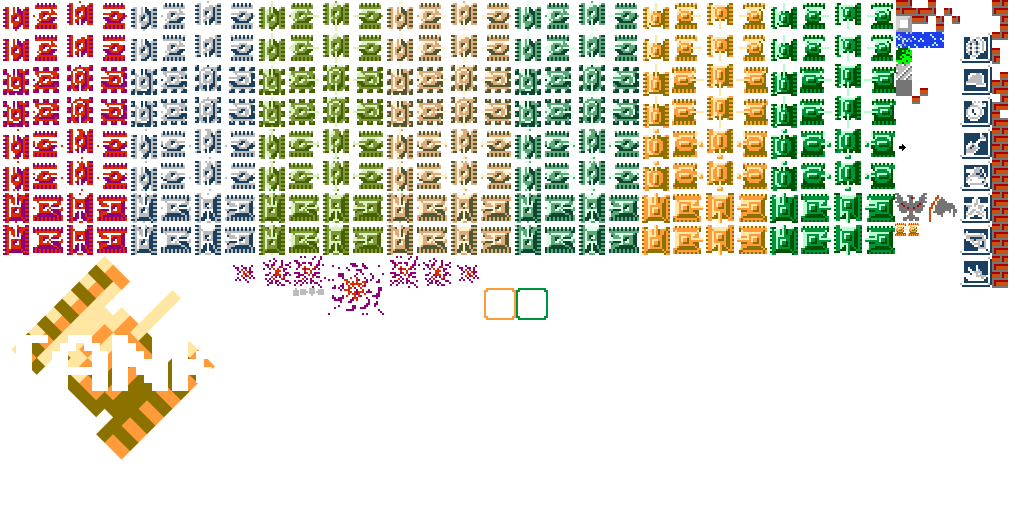
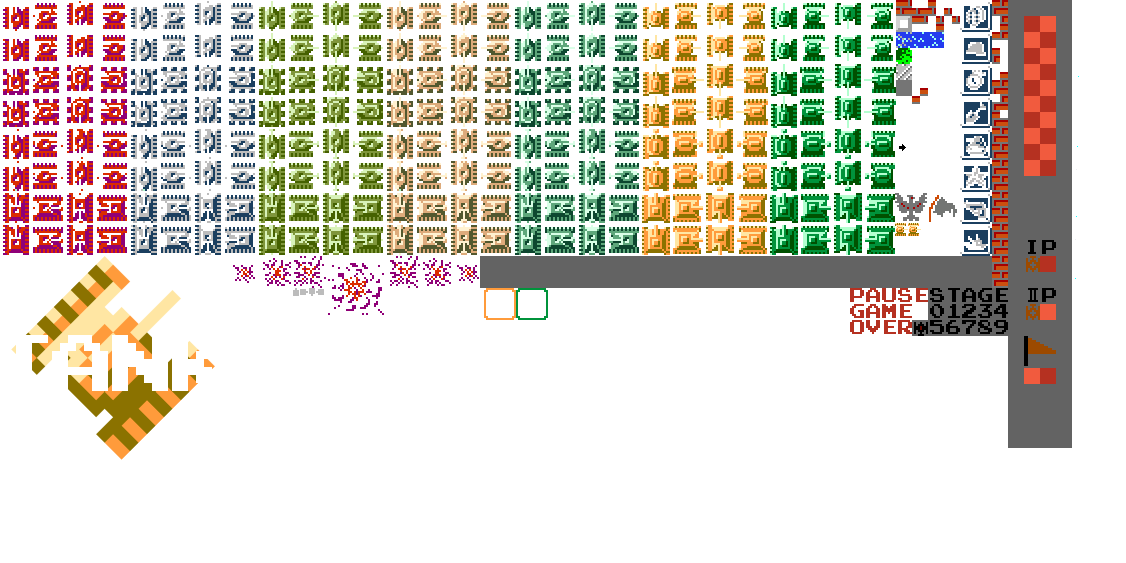
next iteration

diff --git a/src/main/java/ua/drozda/battlecity/fx/MainFXApplication.java b/src/main/java/ua/drozda/battlecity/fx/MainFXApplication.java
@@ -41,9 +41,17 @@ public class MainFXApplication extends Application {
     public void start(Stage primaryStage) throws Exception {
         LevelLoader.loadlevel("20", world);
         fxWorld.setWorld(world);
+        Group playGround = new Group();
         Group root = new Group();
-        Scene scene = new Scene(root, fxWorld.getWorld().getWorldWiddthPixel(), fxWorld.getWorld().getWorldHeightPixel(), Color
-                .BLACK);
+        root.getChildren().add(FxBorder.group);
+        root.getChildren().add(playGround);
+        Scene scene = new Scene(root, fxWorld.getWorld().getWorldWiddthPixel() +
+                fxWorld.getWorld().getCellWidth() * 6,//for bounds around playground
+                fxWorld.getWorld().getWorldHeightPixel() +
+                        fxWorld.getWorld().getCellWidth() * 4, //for bounds around playground
+                Color.BLACK);
+        playGround.setLayoutX(fxWorld.getWorld().getCellWidth() * 2);
+        playGround.setLayoutY(fxWorld.getWorld().getCellHeight() * 2);
         scene.setOnKeyReleased(keyPressedEventHandler);
         scene.setOnKeyPressed(keyPressedEventHandler);
         AnimationTimer toggleAnimationTimer = new AnimationTimer() {
@@ -54,6 +62,8 @@ public class MainFXApplication extends Application {
             }
         };
 
+        Group bounds = new Group();
+
         AnimationTimer mainLoop = new AnimationTimer() {
             private Boolean init = false;
 
@@ -63,18 +73,19 @@ public class MainFXApplication extends Application {
 
                     world.initializeWorld(now);
                     FxGameUnit tank = FxGameUnit.createFxGameUnit(world.getFirstPlayer());
-                    fxWorld.fxGameUnitsList.add(tank);
+
                     firstPlayerTank = world.getFirstPlayer();
-                    // root.getChildren().add(tank.getImageView());
+                    // playGround.getChildren().add(tank.getImageView());
 
                     FxGameUnit tank2 = FxGameUnit.createFxGameUnit(world.getSecondPlayer());
                     fxWorld.fxGameUnitsList.add(tank2);
+                    fxWorld.fxGameUnitsList.add(tank);
                     secondPlayerTank = world.getSecondPlayer();
-                    //root.getChildren().add(tank2.getImageView());
+                    //playGround.getChildren().add(tank2.getImageView());
                     //fxWorld.ga
                     Collections.reverse(fxWorld.fxGameUnitsList);
                     for (FxGameUnit fxGameUnit : fxWorld.fxGameUnitsList) {
-                        root.getChildren().add(fxGameUnit.getImageView());
+                        playGround.getChildren().add(fxGameUnit.getImageView());
                     }
 
                     init = true;

diff --git a/src/main/java/ua/drozda/battlecity/fx/FxWorld.java b/src/main/java/ua/drozda/battlecity/fx/FxWorld.java
@@ -13,8 +13,8 @@ import java.util.List;
  */
 public class FxWorld implements Togglable {
 
-    static final Integer tileSize = 16;
-    static final Integer tankSize = 32;
+    static public final Integer tileSize = 16;
+    static public final Integer tankSize = 32;
 
     static final Integer bulletExplosion = 32;
     static final Integer tankExplosion = 64;
@@ -27,6 +27,9 @@ public class FxWorld implements Togglable {
     static final Integer secondPlayerZoneX = 24 * tankSize;
     static final Integer secondPlayerZoneY = 0 * tankSize;
 
+    static final Integer borderZoneX = 15 * tankSize;
+    static final Integer borderZoneY = 8 * tankSize;
+
     static final Integer brickZoneY = 0 * tileSize;
     static final Integer steelZoneY = 1 * tileSize;
     static final Integer waterZoneY = 2 * tileSize;
@@ -38,8 +41,8 @@ public class FxWorld implements Togglable {
 
 
     //     private static InputStream spritesStream = FxWorld.class.getResourceAsStream("../images/sprites.png");
-//    private static InputStream spritesStream = FxWorld.class.getResourceAsStream("../images/graphics_debug.png");
-    private static InputStream spritesStream = FxWorld.class.getResourceAsStream("../images/graphics.png");
+    private static InputStream spritesStream = FxWorld.class.getResourceAsStream("../images/graphics_debug.png");
+    //   private static InputStream spritesStream = FxWorld.class.getResourceAsStream("../images/graphics.png");
     static Image sprites = new Image(spritesStream);
     List<FxGameUnit> fxGameUnitsList = new ArrayList<>();
     // private FxTank firstPlayerTank;
@@ -63,6 +66,7 @@ public class FxWorld implements Togglable {
             fxGameUnit.toggle(now);
         }
     }
+
     public World getWorld() {
         return world;
     }

diff --git a/src/main/java/ua/drozda/battlecity/fx/FxBorder.java b/src/main/java/ua/drozda/battlecity/fx/FxBorder.java
@@ -1,0 +1,45 @@
+package ua.drozda.battlecity.fx;
+
+import javafx.geometry.Rectangle2D;
+import javafx.scene.Group;
+import javafx.scene.image.ImageView;
+
+import java.util.ArrayList;
+import java.util.List;
+
+/**
+ * Created by GFH on 04.07.2015.
+ */
+public class FxBorder {
+    public static Group group = new Group();
+    private static List<ImageView> imageViews = new ArrayList<>(4);
+
+    static {
+        ImageView imageView = new ImageView(FxWorld.sprites);//top
+        imageView.setViewport(new Rectangle2D(FxWorld.borderZoneX, FxWorld.borderZoneY, 32 * FxWorld.tileSize,
+                FxWorld.tankSize));
+        group.getChildren().add(imageView);
+        imageView = new ImageView(FxWorld.sprites);//bottom
+        imageView.setViewport(new Rectangle2D(FxWorld.borderZoneX, FxWorld.borderZoneY, 32 * FxWorld.tileSize,
+                FxWorld.tankSize));
+        imageView.setY(28 * FxWorld.tileSize);
+        group.getChildren().add(imageView);
+        imageView = new ImageView(FxWorld.sprites);//right
+        imageView.setViewport(new Rectangle2D(FxWorld.tankSize * 31 + FxWorld.tileSize, 0, 2 * FxWorld
+                .tankSize,
+                14 * FxWorld.tankSize));
+        imageView.setX(28 * FxWorld.tileSize);
+        imageView.setY(2 * FxWorld.tileSize);
+        group.getChildren().add(imageView);
+        imageView = new ImageView(FxWorld.sprites);//left
+        imageView.setViewport(new Rectangle2D(FxWorld.borderZoneX, FxWorld.borderZoneY, 32 * FxWorld.tileSize,
+                FxWorld.tankSize));
+        imageView.setX(-15 * FxWorld.tileSize);
+        imageView.setY(14 * FxWorld.tileSize);
+        imageView.setRotate(90);
+        group.getChildren().add(imageView);
+
+
+    }
+
+}

diff --git a/src/main/java/ua/drozda/battlecity/core/collisions/CollisionManager.java b/src/main/java/ua/drozda/battlecity/core/collisions/CollisionManager.java
@@ -53,7 +53,6 @@ public class CollisionManager {
     }
 
     public void newPosition(ActiveUnit activeUnit) {
-        final boolean stop;
         world.getUnitList().stream().filter(u -> (u != activeUnit))
                 .forEach(u -> {
                             Bounds newBounds = new BoundingBox(activeUnit.getNewBounds().getMinX() + 1,
@@ -61,7 +60,7 @@ public class CollisionManager {
                                     activeUnit.getNewBounds().getWidth() - 2,
                                     activeUnit.getNewBounds().getHeight() - 2);
                             if (!canRide(u) && u.getBounds().intersects(newBounds)) {
-                                System.out.println("TileUnit =" + u + ";activeUnit = [" + activeUnit + "]");
+                                System.out.println("OtherUnit =" + u + ";activeUnit = [" + activeUnit + "]");
 
                                 switch (activeUnit.getDirection()) {
                                     case UP: {
@@ -103,11 +102,10 @@ public class CollisionManager {
                             }
                         }
                 );
-        //   if (!activeUnit.isCantMove()) {
-        activeUnit.setBounds(activeUnit.getNewBounds());
-//        } else {
-//            activeUnit.setNewBounds(activeUnit.getBounds());
-        //   }
+        if (activeUnit.isEngineOn()) {
+            activeUnit.setBounds(activeUnit.getNewBounds());
+        }
+
     }
 
     //

diff --git a/src/main/java/ua/drozda/battlecity/core/ActiveUnit.java b/src/main/java/ua/drozda/battlecity/core/ActiveUnit.java
@@ -21,7 +21,8 @@ public abstract class ActiveUnit extends GameUnit {
     private Integer cellSize = 16;//bad idea TODO maybe we can use EasyDI lib???
 
     public ActiveUnit(double x, double y, double width, double height, Long lives, Long currentTime, BasicState
-            currentBasicState, Direction direction, Long velocity, Function<GameUnit, Boolean> registerAction, Function<GameUnit, Boolean> unRegisterAction) {
+            currentBasicState, Direction direction, Long velocity, Function<GameUnit, Boolean> registerAction,
+                      Function<GameUnit, Boolean> unRegisterAction) {
         super(x, y, width, height, lives, currentTime, currentBasicState, registerAction, unRegisterAction);
         this.setDirection(direction);
         this.setVelocity(velocity);
@@ -33,6 +34,7 @@ public abstract class ActiveUnit extends GameUnit {
     }
 
     private void fixPosition() {
+        // System.out.println("fixPosition for" + this);
         Long x = nearest(getBounds().getMinX(), cellSize);
         Long y = nearest(getBounds().getMinY(), cellSize);
         Double newX = getBounds().getMinX();
@@ -52,6 +54,7 @@ public abstract class ActiveUnit extends GameUnit {
     }
 
     public void setDirection(Direction direction) {
+        System.out.println("setDirection for" + this);
         if (direction != getDirection()) {
             fixPosition();
         }

diff --git a/src/main/java/ua/drozda/battlecity/core/TankUnit.java b/src/main/java/ua/drozda/battlecity/core/TankUnit.java
@@ -1,5 +1,8 @@
 package ua.drozda.battlecity.core;
 
+import javafx.geometry.Bounds;
+import ua.drozda.battlecity.fx.FxWorld;
+
 import java.util.EnumSet;
 import java.util.Set;
 import java.util.function.Function;
@@ -12,6 +15,7 @@ public class TankUnit extends ActiveUnit {
     protected TankType tankType;
     protected BonusStrategy bonusStrategy;
     protected Integer starCount = 0;
+
 
     public TankUnit(double x, double y, double width, double height, Long lives, Long currentTime,
                     BasicState currentBasicState, Direction direction, Long velocity, Function<GameUnit, Boolean> registerAction,
@@ -70,6 +74,18 @@ public class TankUnit extends ActiveUnit {
             this.setMoveStrategy(this.new TankMoveStrategy());
         }
         return moveStrategy;
+    }
+
+    @Override
+    protected Boolean checkBounds(Bounds bounds) {
+        if (bounds.getMinX() < 0 ||
+                bounds.getMinX() > 24 * FxWorld.tileSize ||
+                bounds.getMinY() < 0 ||
+                bounds.getMinY() > 24 * FxWorld.tileSize
+                ) {
+            return false;
+        }
+        return super.checkBounds(bounds);
     }
 
     public enum TankType {

diff --git a/src/main/java/ua/drozda/battlecity/core/GameUnit.java b/src/main/java/ua/drozda/battlecity/core/GameUnit.java
@@ -36,6 +36,7 @@ public abstract class GameUnit extends Observable {
     protected Function<GameUnit, Boolean> registrateAction;
     protected Function<GameUnit, Boolean> unRegistrateAction;
     protected Long deltaHeartBeat;
+
     public GameUnit(double x, double y, double width, double height, Long lifes, Long currentTime, Function<GameUnit, Boolean> registerAction, Function<GameUnit, Boolean> unRegisterAction) {
         this(x, y, width, height, lifes, currentTime, BasicState.CREATING, registerAction, unRegisterAction);
     }
@@ -111,7 +112,14 @@ public abstract class GameUnit extends Observable {
     }
 
     public void setBounds(Bounds bounds) {
-        this.bounds = bounds;
+        System.out.println("setBounds for" + this);
+        if (checkBounds(bounds)) {
+            this.bounds = bounds;
+        }
+    }
+
+    protected Boolean checkBounds(Bounds bounds) {
+        return true;
     }
 
     public void decLifes(Long lifes) {

diff --git a/src/main/java/ua/drozda/battlecity/core/World.java b/src/main/java/ua/drozda/battlecity/core/World.java
@@ -231,6 +231,7 @@ public class World implements LoadableCells {
     }
 
     public void initializeWorld(Long now) {
+        setCollisionManager(new CollisionManager(this));
         TankUnit tank = new TankUnit(8 * getCellWidth(), 24 * getCellHeight(), tankWidthPixel, tankHeightPixel,
                 1l,
                 0l, GameUnit
@@ -247,7 +248,6 @@ public class World implements LoadableCells {
         setSecondPlayer(tank);
 
         getUnitList().forEach(u -> u.initUnit(now));
-        setCollisionManager(new CollisionManager(this));
 
 
     }
